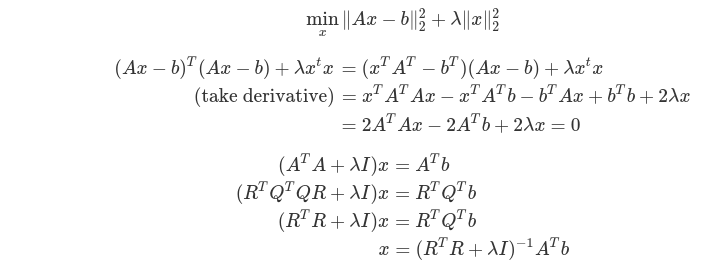
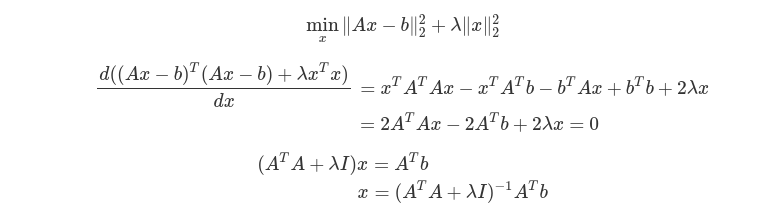
* explaining about using normal lls instead of QR decomposition for regularized problem

diff --git a/README.md b/README.md
@@ -8,7 +8,7 @@
 # 1. My Works
 * this projects dependents on eigen3 for fitting Ax=b.
   
-To avoid calculate $A^TA$ to increase condition number, here householder QR decomposition (from eigen3) was used.
+To avoid calculate $A^TA$ to increase condition number, here householder QR decomposition (from eigen3) was used. note, lls with QR decomposition is slightly slower than normal lls in eigen3. The advantange is only with smaller float error.
 
 <!-- $$\min_{x}\|Ax-b\|^2 $$
 
@@ -45,9 +45,9 @@ finally we have $ x = R_1^{-1}Q_1^Tb$, where $Q_1,R_1$ are from thin QR decompos
 
 ![lls fitting example](./examples/lls_fitting.png)
 
-* regularized (L2) least square (working), [discussion](https://math.stackexchange.com/questions/2013160/qr-factorization-regularized-least-squares)
-
-<!-- $$\min_{x}\|Ax-b\|_2^2 + \lambda \|x\|_2^2$$
+* regularized (L2) least square (working on), here I use normal lls instead of QR decomposition, because adding regularization term broke buildin solver in eigen3 (according to my currrent understanding of eigen3 lib), which is very time expensive for matrix allocation.
+<!-- 
+$$\min_{x}\|Ax-b\|_2^2 + \lambda \|x\|_2^2$$
 
 $$
 \begin{equation}
@@ -61,11 +61,10 @@ $$
 \begin{equation}
 \begin{split}
 (A^TA+\lambda I)x  &= A^Tb\\
-(R^TQ^TQR+\lambda I)x&= R^TQ^Tb\\
-(R^TR+\lambda I)x &= R^TQ^Tb\\
-x &= (R^TR+\lambda I)^{-1}A^Tb 
+x &= (A^TA+\lambda I)^{-1}A^Tb 
 \end{split}\end{equation}
-$$ -->
+$$ 
+-->
 
 ![l2_lls_qr](./imgs/l2_lls_qr.png)
 
@@ -83,7 +82,7 @@ $$
 $$
 
 
-* polish codes (working)
+* polish codes (working on)
 * GPU support (maybe)
 * add SVD for least squares (maybe)
 
